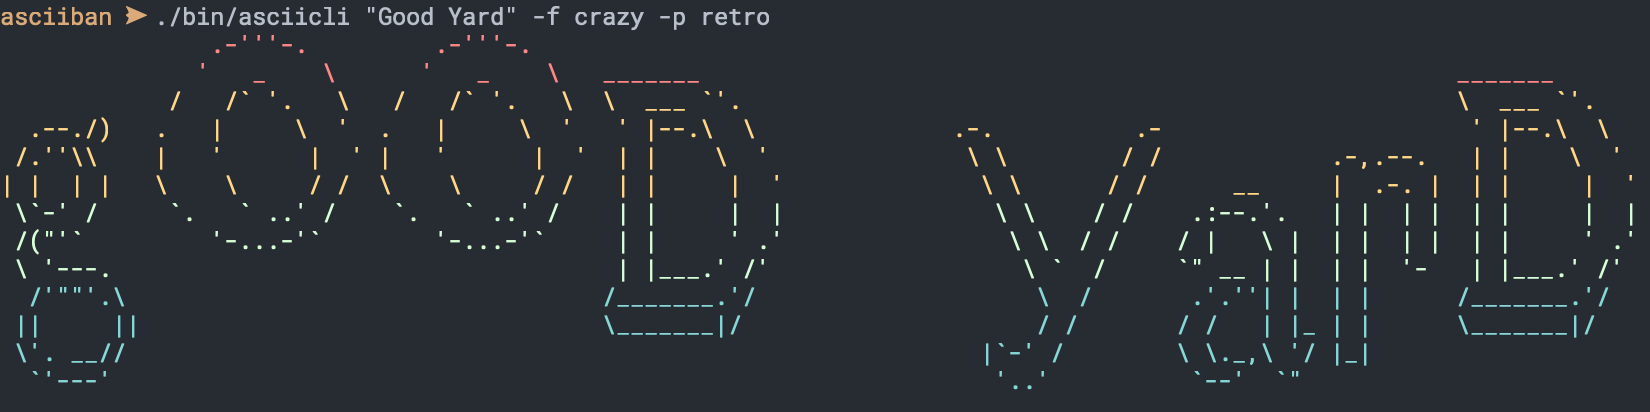
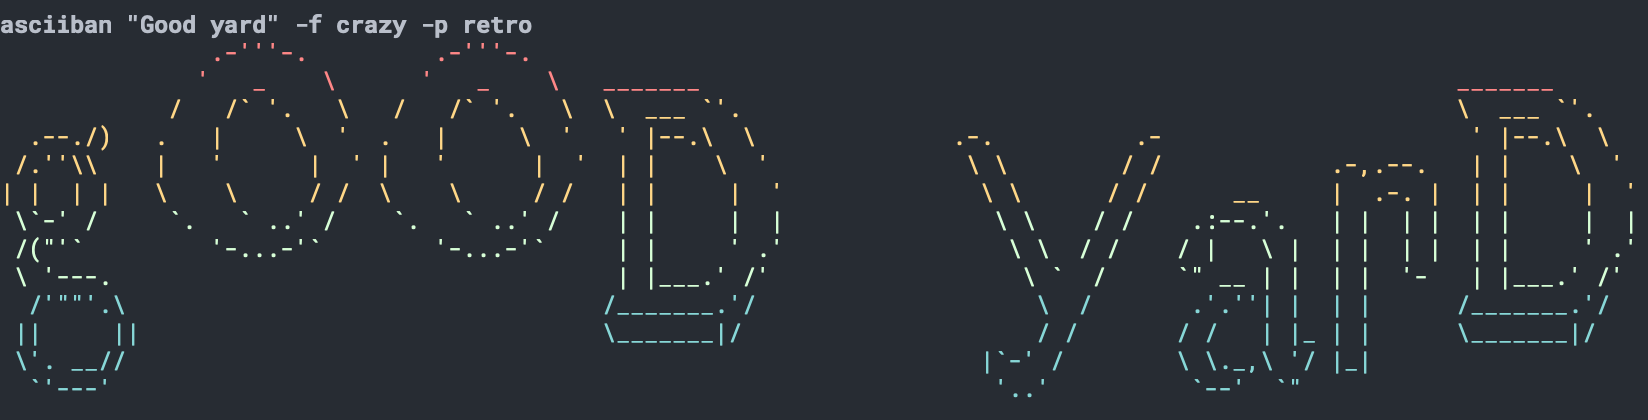
update screenshots & defaults

diff --git a/ascii/banner.go b/ascii/banner.go
@@ -6,7 +6,7 @@ import "fmt"
 
 type Args struct {
 	Message    string
-	FontName   string
+	Font       string
 	Palette    Palette
 	ColourMode ColourMode
 	Trim       bool
@@ -14,20 +14,20 @@ type Args struct {
 }
 
 var DefaultArgs = Args{
-	Message:  "ascii banner",
-	FontName: "",
-	Palette:  PaletteDefault,
+	Message: "ascii banner",
+	Font:    FontANSIShadow,
+	Palette: PaletteDefault,
 }
 
 func Print(args Args) {
-	if args.FontName == "" {
-		args.FontName = "default"
+	if args.Font == "" {
+		args.Font = "default"
 	}
 	if args.Palette.IsEmpty() {
 		args.Palette = White
 	}
 
-	flf, err := loadFont(args.FontName)
+	flf, err := loadFont(args.Font)
 	if err != nil {
 		panic(err)
 	}
@@ -35,15 +35,15 @@ func Print(args Args) {
 }
 
 func Random(args Args) {
-	args.FontName = pickKeyFromMap(fontMap)
+	args.Font = pickKeyFromMap(fontMap)
 	args.Palette = pickValueFromMap(ProfileMap)
-	flf, err := loadFont(args.FontName)
+	flf, err := loadFont(args.Font)
 	if err != nil {
 		panic(err)
 	}
 
 	if args.Verbose {
-		fmt.Printf("Font: %s, \nPalette: %s (%s)\n", args.FontName, args.Palette.Name, args.Palette.Key)
+		fmt.Printf("Font: %s, \nPalette: %s (%s)\n", args.Font, args.Palette.Name, args.Palette.Key)
 	}
 	flf.Render(args)
 }

diff --git a/README.md b/README.md
@@ -79,7 +79,7 @@ asciiban -f georgia11 -p matrix "What is real?"
 ```
 
 ## Examples
-![dosrebel-murica.png](examples%2Fdosrebel-murica.png)
+![dosrebel-patriot.png](examples%2Fdosrebel-patriot.png)
 ![georgia11-matrix.png](examples%2Fgeorgia11-matrix.png)
 ![univers-google.png](examples%2Funivers-google.png)
 ![crazy-retro.png](examples%2Fcrazy-retro.png)
